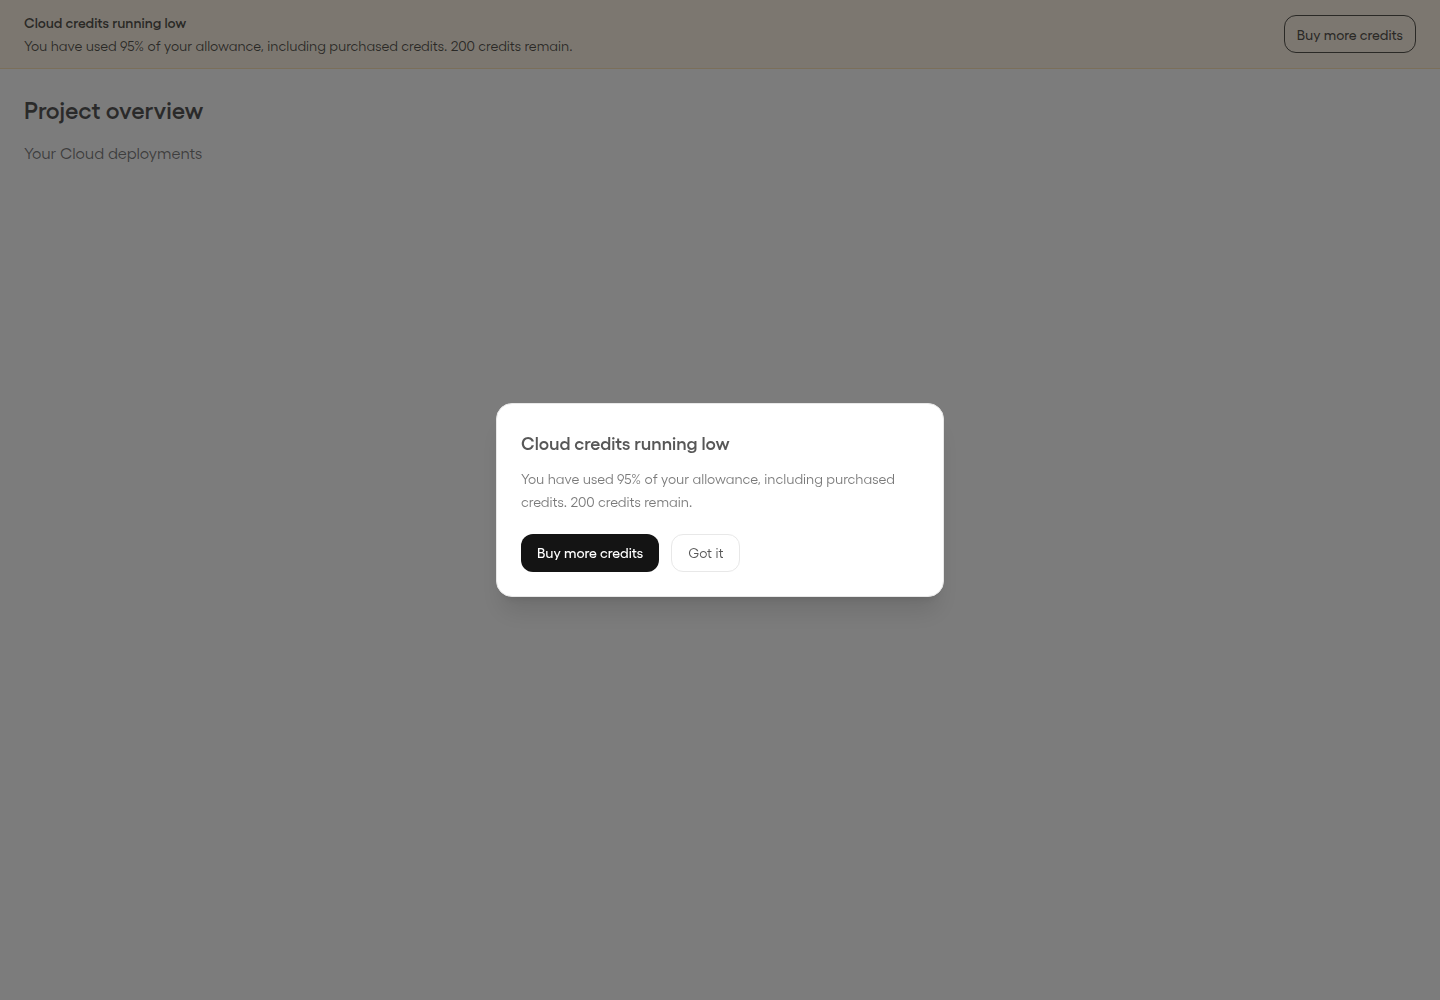
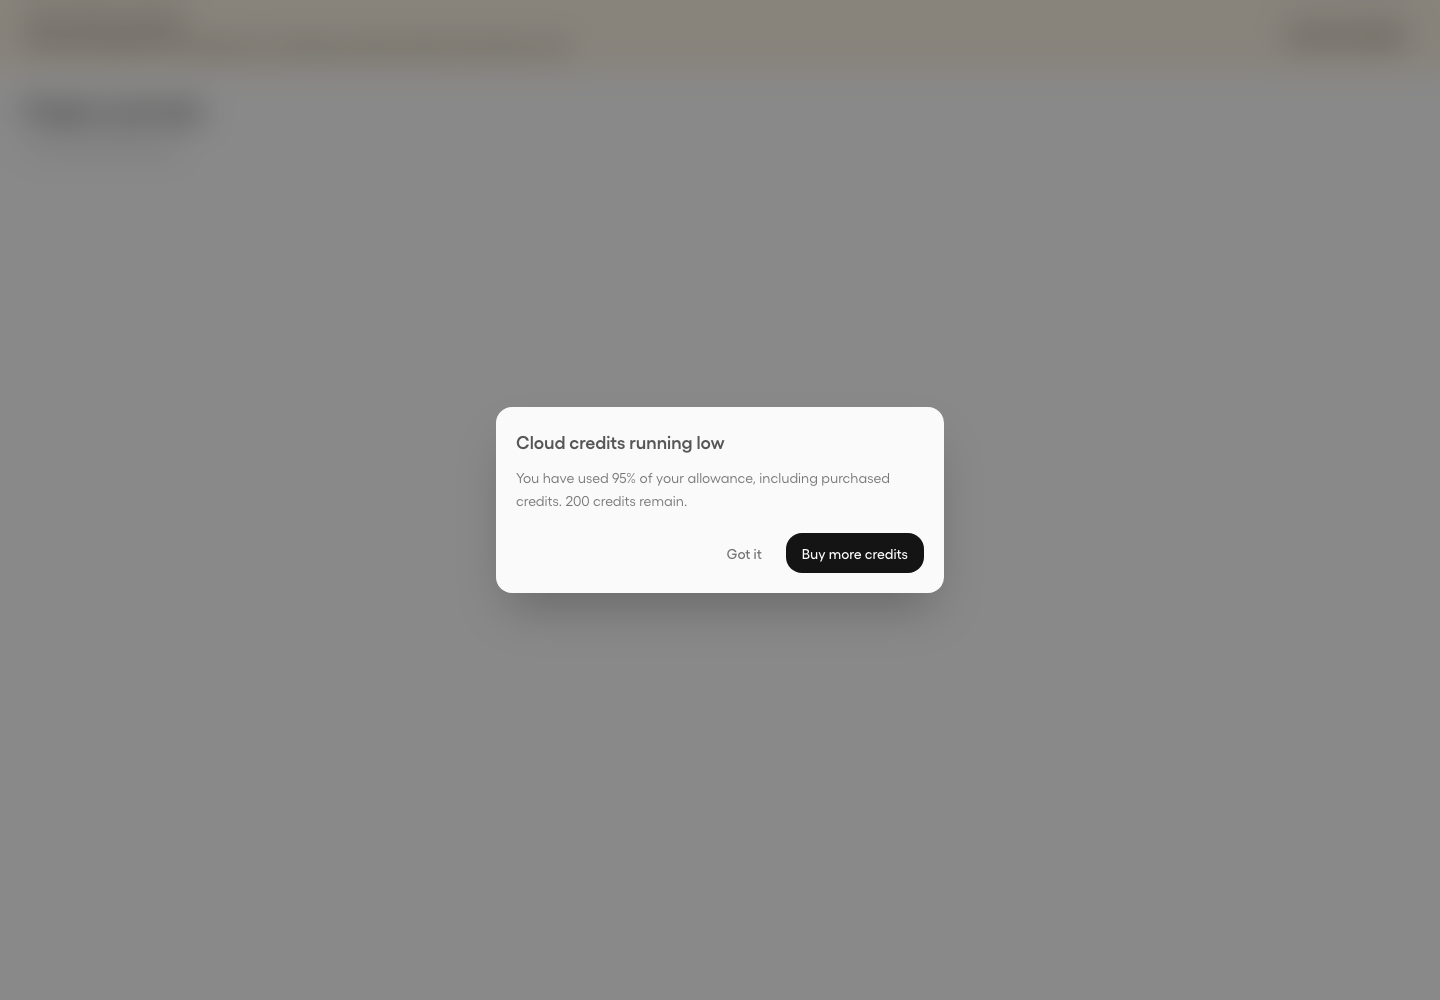
fix(billing): reuse shared alert dialog and consolidate guidance

diff --git a/apps/dashboard/src/components/billing/CloudCreditAlert.tsx b/apps/dashboard/src/components/billing/CloudCreditAlert.tsx
@@ -5,6 +5,8 @@ import { useAuth } from "@/context/AuthContext";
 import { usePlatform } from "@/context/PlatformContext";
 import { useCloud } from "@/context/CloudContext";
 import { useI18n, interpolate } from "@/components/i18n-provider";
+import { Button } from "@/components/ui/button";
+import { Modal } from "@/components/ui/Modal";
 import { useDialogFocus } from "@/hooks/useDialogFocus";
 import { billingApi, type BillingState } from "@/lib/api/billing";
 import { getActiveOrganizationId, subscribeActiveOrganization } from "@/lib/api/client";
@@ -159,9 +161,9 @@ export function CreditAlertNotice({
           <p className="font-semibold">{title}</p>
           <p className="mt-1 break-words">{description}</p>
         </div>
-        <a href={href} className="shrink-0 rounded-lg border border-current px-3 py-2 font-medium">
-          {action}
-        </a>
+        <Button asChild variant="secondary" className="shrink-0">
+          <a href={href}>{action}</a>
+        </Button>
       </div>
       {openKey === key && (
         <AlertDialog
@@ -177,60 +179,57 @@ export function CreditAlertNotice({
   );
 }
 
-function AlertDialog({
-  title,
-  description,
-  href,
-  action,
-  closeLabel,
-  onClose,
-}: {
+interface AlertDialogProps {
   title: string;
   description: string;
   href: string;
   action: string;
   closeLabel: string;
   onClose: () => void;
-}) {
+}
+
+function AlertDialog(props: AlertDialogProps) {
+  return (
+    <Modal isOpen onClose={props.onClose} width="100%" maxWidth="448px" showCloseButton={false}>
+      <AlertDialogContent {...props} />
+    </Modal>
+  );
+}
+
+function AlertDialogContent({
+  title,
+  description,
+  href,
+  action,
+  closeLabel,
+  onClose,
+}: AlertDialogProps) {
   const { dialog, onKeyDown } = useDialogFocus(onClose);
   const id = useId();
   return (
     <div
-      className="fixed inset-0 z-[70] flex items-center justify-center bg-black/50 p-4"
-      onClick={onClose}
+      ref={dialog}
+      role="dialog"
+      aria-modal="true"
+      aria-labelledby={`${id}-title`}
+      aria-describedby={`${id}-description`}
+      tabIndex={-1}
+      onKeyDown={onKeyDown}
+      className="p-5 outline-none"
     >
-      <div
-        ref={dialog}
-        role="dialog"
-        aria-modal="true"
-        aria-labelledby={`${id}-title`}
-        aria-describedby={`${id}-description`}
-        tabIndex={-1}
-        onKeyDown={onKeyDown}
-        onClick={(event) => event.stopPropagation()}
-        className="w-full max-w-md rounded-2xl border border-border bg-card p-6 shadow-xl outline-none"
-      >
-        <h2 id={`${id}-title`} className="text-lg font-semibold">
-          {title}
-        </h2>
-        <p id={`${id}-description`} className="mt-3 text-sm leading-relaxed text-muted-foreground">
-          {description}
-        </p>
-        <div className="mt-5 flex flex-wrap gap-3">
-          <a
-            href={href}
-            className="rounded-lg bg-primary px-4 py-2 text-sm font-medium text-primary-foreground"
-          >
-            {action}
-          </a>
-          <button
-            type="button"
-            onClick={onClose}
-            className="rounded-lg border border-border px-4 py-2 text-sm"
-          >
-            {closeLabel}
-          </button>
-        </div>
+      <h2 id={`${id}-title`} className="text-lg font-semibold">
+        {title}
+      </h2>
+      <p id={`${id}-description`} className="mt-3 text-sm leading-relaxed text-muted-foreground">
+        {description}
+      </p>
+      <div className="mt-5 flex flex-wrap items-center justify-end gap-2">
+        <Button type="button" variant="ghost" onClick={onClose}>
+          {closeLabel}
+        </Button>
+        <Button asChild>
+          <a href={href}>{action}</a>
+        </Button>
       </div>
     </div>
   );

diff --git a/apps/dashboard/src/components/billing/cloud-credit-alert.test.tsx b/apps/dashboard/src/components/billing/cloud-credit-alert.test.tsx
@@ -87,20 +87,20 @@ const notice = (value: BillingState) => (
 it("shows the provider warning at 80% and a once-per-band popup at 95%, with a scoped top-up action", async () => {
   await render(notice(state({ percent: 80, threshold: 80, remaining: 800_000 })));
   expect(container.textContent).toContain("80%");
-  expect(container.querySelector('[role="dialog"]')).toBeNull();
+  expect(document.querySelector('[role="dialog"]')).toBeNull();
   await render(notice(state()));
-  expect(container.querySelector('[role="dialog"]')).not.toBeNull();
+  expect(document.querySelector('[role="dialog"]')).not.toBeNull();
   expect(container.textContent).toContain("200 credits");
   expect(container.querySelector("a")?.getAttribute("href")).toBe(
     "/cloud-billing?organizationId=org-a&tab=topups",
   );
   await act(async () =>
-    [...container.querySelectorAll("button")]
+    [...document.querySelectorAll("button")]
       .find((button) => button.textContent === copy.close)!
       .click(),
   );
   await render(notice(state()));
-  expect(container.querySelector('[role="dialog"]')).toBeNull();
+  expect(document.querySelector('[role="dialog"]')).toBeNull();
   expect(container.querySelector('[role="status"]')).not.toBeNull();
 });
 
@@ -122,7 +122,7 @@ it("distinguishes grace/exhaustion, rearms on renewal, and hides recovered, disa
   await render(notice(state({}, { creditAlert: null })));
   expect(container.textContent).toBe("");
   await render(notice(state({}, { currentPeriod: { start: "2026-10-01", end: "2026-11-01" } })));
-  expect(container.querySelector('[role="dialog"]')).not.toBeNull();
+  expect(document.querySelector('[role="dialog"]')).not.toBeNull();
 });
 
 it("offers billing management when top-ups are disabled and never initiates a purchase itself", async () => {
@@ -130,6 +130,39 @@ it("offers billing management when top-ups are disabled and never initiates a pu
   expect(container.querySelector("a")?.textContent).toBe(copy.openBilling);
   expect(container.querySelector("a")?.getAttribute("href")).toContain("tab=overview");
   expect(h.setActive).not.toHaveBeenCalled();
+});
+
+it("focuses the shared dialog and restores focus after Escape without reopening the same warning", async () => {
+  const previous = document.createElement("button");
+  previous.textContent = "Previous control";
+  document.body.append(previous);
+  previous.focus();
+  try {
+    await render(notice(state()));
+    const dialog = document.querySelector<HTMLElement>('[role="dialog"]')!;
+    expect(document.activeElement).toBe(dialog);
+    await act(async () =>
+      dialog.dispatchEvent(new KeyboardEvent("keydown", { key: "Escape", bubbles: true })),
+    );
+    expect(document.querySelector('[role="dialog"]')).toBeNull();
+    expect(document.activeElement).toBe(previous);
+    await render(notice(state()));
+    expect(document.querySelector('[role="dialog"]')).toBeNull();
+  } finally {
+    previous.remove();
+  }
+});
+
+it("removes an already-open warning dialog when the selected organization changes", async () => {
+  await render(<CloudCreditAlert />);
+  expect(document.querySelector('[role="dialog"]')).not.toBeNull();
+  h.read.mockResolvedValue(state({ state: "ok" }));
+  await act(async () => {
+    h.org = "org-b";
+    h.listeners.forEach((listener) => listener());
+  });
+  expect(document.querySelector('[role="dialog"]')).toBeNull();
+  expect(container.textContent).toBe("");
 });
 
 it("hides the old organization immediately and rejects its delayed balance response", async () => {

diff --git a/docs/openship-cloud-launch.md b/docs/openship-cloud-launch.md
@@ -732,37 +732,11 @@ Provider references: [index](https://oblien.com/llms.txt),
 [Pages](https://oblien.com/docs/api/pages),
 [scoped tokens](https://oblien.com/docs/api/scoped-tokens).
 
-
 ## Credit warnings and recovery
 
-Cloud credit warnings come from Oblien's current namespace quota state. The default
-warning bands are 80% and 95% of the included allowance plus purchased credits.
-The dashboard keeps a warning visible, opens a dismissible popup at the final
-configured warning band, grace entry or exhaustion, and links to billing for that
-specific organization. Buying extra credits is offered only when Cloud billing
-and top-ups are available. Resource-cap errors still require reducing resources or
-changing the plan; purchasing credits does not raise resource caps.
+Cloud warnings follow Oblien's current namespace quota state and use the existing notification
+pipeline for durable email and in-app delivery. Deploy the additive `quota.alert` provider response
+and database migration `0153_durable_credit_alerts` before rolling out the API and dashboard.
 
-Signed `namespace.quota.threshold`, `credits.low` and `credits.depleted` events
-refresh the provider entitlement before any notification is prepared. Delayed
-warnings after funding, old billing periods, different service quotas and stale
-namespace bindings do not notify the wrong customer. Openship queues notifications
-and its processed event checkpoint in one database transaction; a failure returns
-503 for Oblien's durable retry. No webhook grants credits in Openship.
-
-Billing recipients receive email and in-app messages through the existing
-notification system, subject to billing-read access and notification preferences.
-The default email must be verified, and an email transport must be configured.
-Each attempt rechecks membership and its destination. Critical deliveries persist
-retry backoff, retain their delivery IDs, and recover after an interrupted worker.
-SMTP delivery is at least once: a lost acknowledgment can cause a repeated email.
-The dashboard also refreshes on focus and once a minute while visible, so email
-availability does not hide current credit state.
-
-Apply database migration `0153_durable_credit_alerts` when deploying the Openship
-API. Deploy Oblien's additive `quota.alert` response and durable metering alerts
-first, then Openship's API and dashboard together. Existing SDK 2.4.0 transport is
-compatible; no unpublished SDK dependency is introduced. Customer emails use
-`/cloud-billing?organizationId=...`, which validates membership and selects that
-organization before opening billing. An inaccessible organization cannot fall back
-to another customer's billing page.
+[Namespace credit alerts](namespace-credit-alerts.md) is the reference for delivery guarantees,
+provider requirements, organization isolation, and verification.
